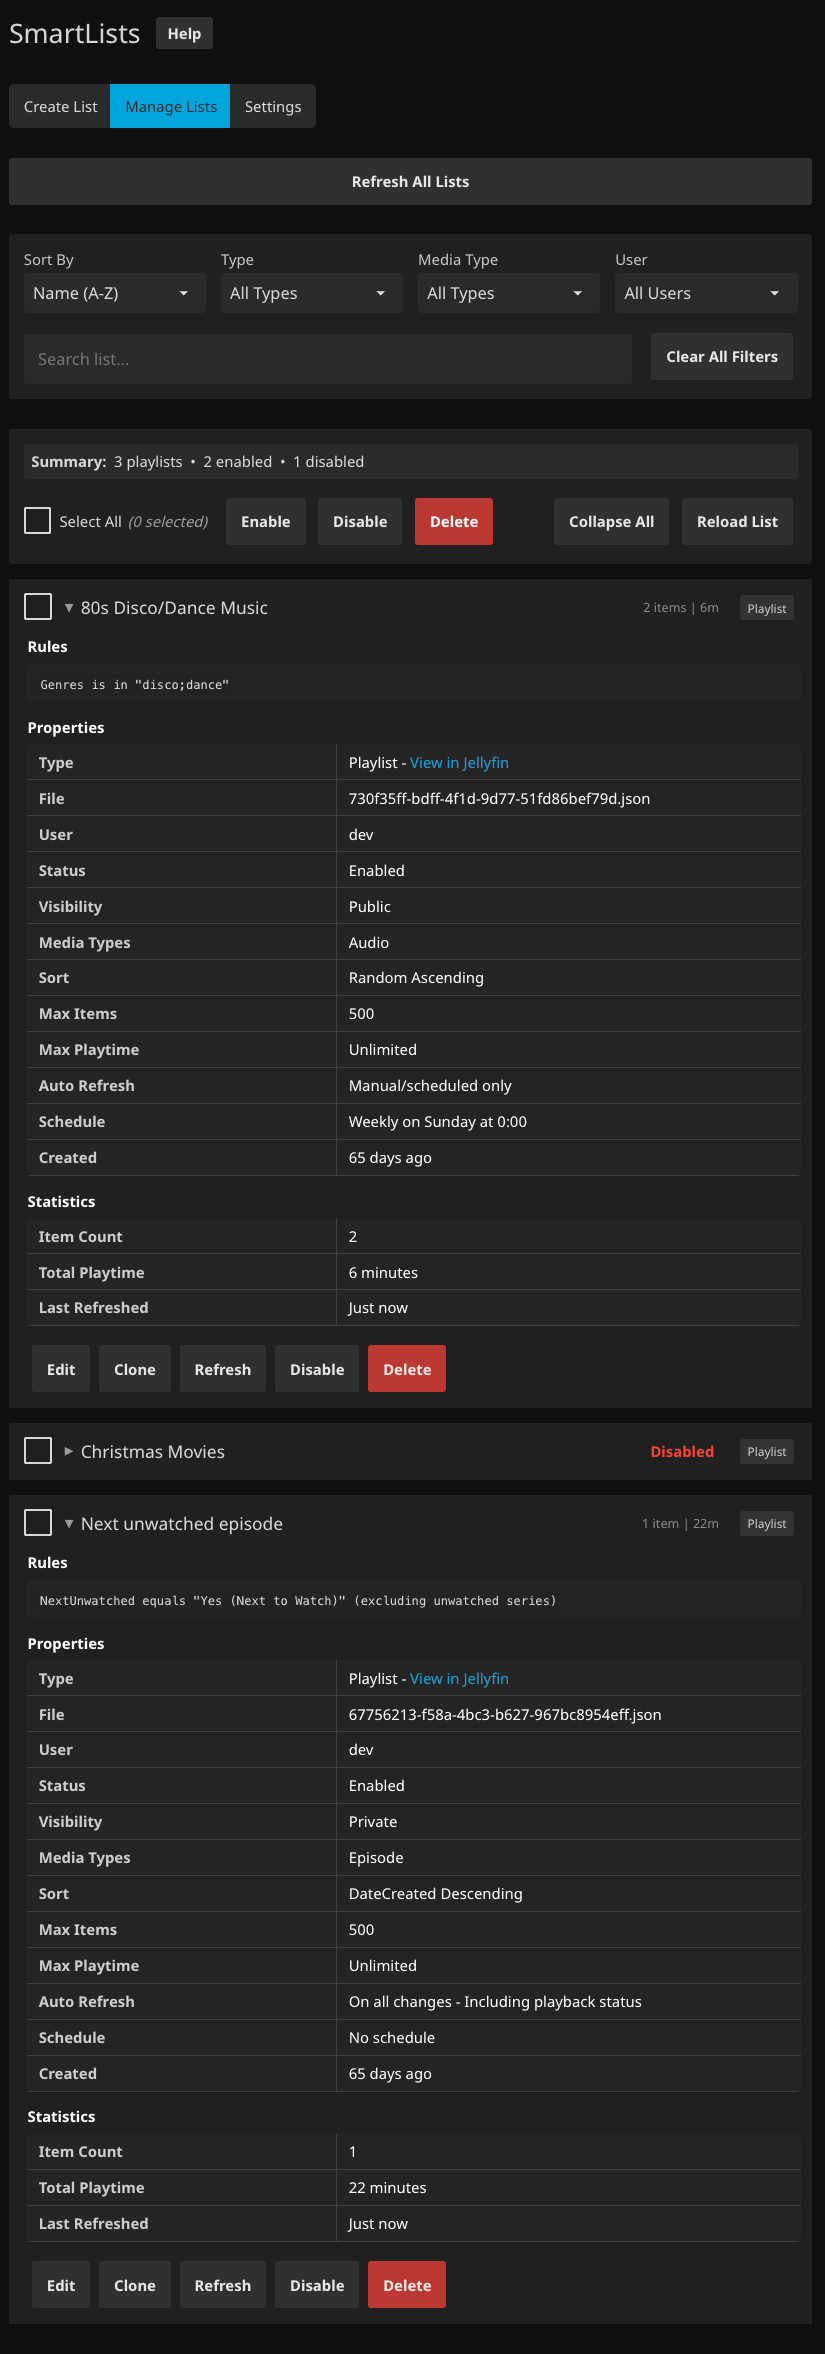
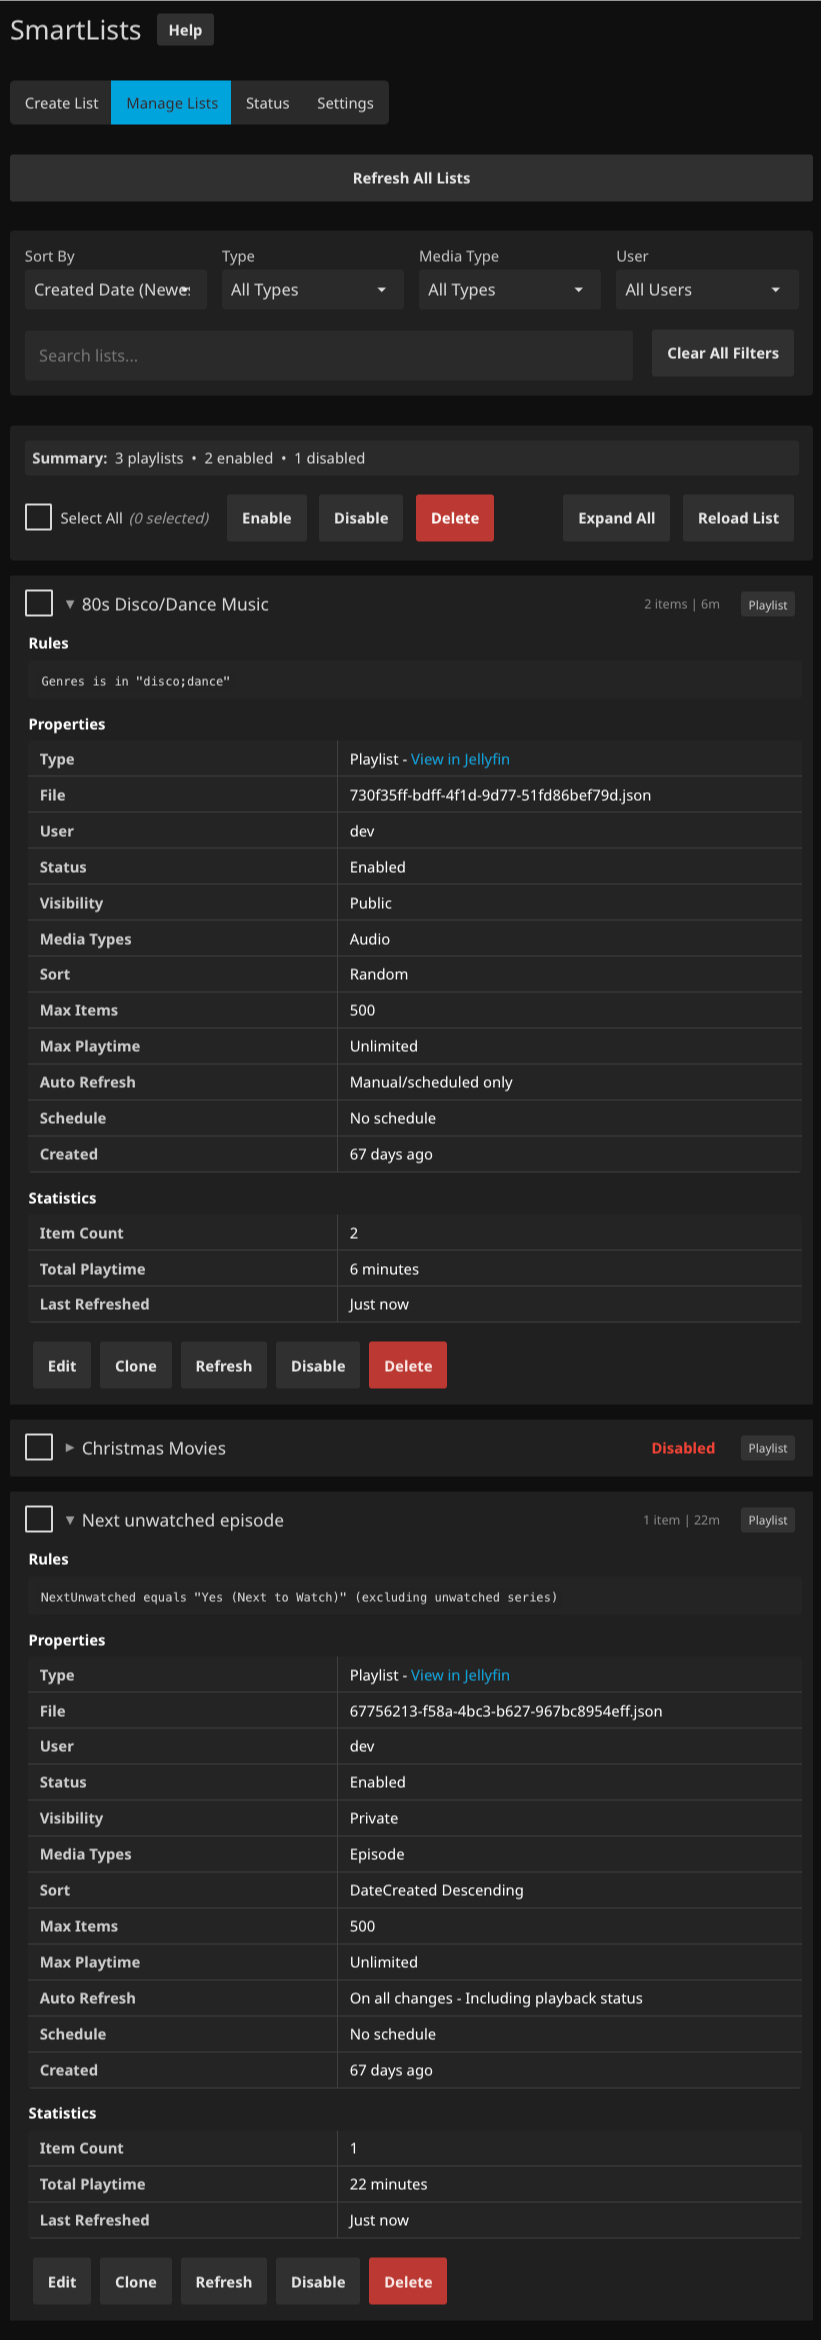
Screenshot changes

diff --git a/README.md b/README.md
@@ -37,13 +37,16 @@ This plugin allows you to create dynamic playlists and collections based on a se
 
 ## ⚙ Configuration Interface
 
-SmartLists features a modern web-based configuration interface with three main tabs:
+SmartLists features a modern web-based configuration interface with four main tabs:
 
 <div align="center">
     <p>
-        <img alt="Create list page" src="https://raw.githubusercontent.com/jyourstone/jellyfin-smartplaylist-plugin/main/images/config_page_create.png" width="270" style="margin-right: 10px;"/>
-        <img alt="Manage lists page" src="https://raw.githubusercontent.com/jyourstone/jellyfin-smartplaylist-plugin/main/images/config_page_manage.png" width="270" style="margin-right: 10px;"/>
-        <img alt="Settings page" src="https://raw.githubusercontent.com/jyourstone/jellyfin-smartplaylist-plugin/main/images/config_page_settings.png" width="270"/>
+        <img alt="Create list page" src="https://raw.githubusercontent.com/jyourstone/jellyfin-smartplaylist-plugin/main/images/config_page_create.png" width="400" style="margin-right: 10px; margin-bottom: 10px;"/>
+        <img alt="Manage lists page" src="https://raw.githubusercontent.com/jyourstone/jellyfin-smartplaylist-plugin/main/images/config_page_manage.png" width="400" style="margin-right: 10px; margin-bottom: 10px;"/>
+    </p>
+    <p>
+        <img alt="Status page" src="https://raw.githubusercontent.com/jyourstone/jellyfin-smartplaylist-plugin/main/images/config_page_status.png" width="400" style="margin-right: 10px;"/>
+        <img alt="Settings page" src="https://raw.githubusercontent.com/jyourstone/jellyfin-smartplaylist-plugin/main/images/config_page_settings.png" width="400"/>
     </p>
 </div>
 

diff --git a/docs/content/user-guide/configuration.md b/docs/content/user-guide/configuration.md
@@ -2,7 +2,7 @@
 
 SmartLists features a modern web-based configuration interface through the plugin settings page!
 
-<div align="center" style="display: flex; justify-content: center; gap: 10px; flex-wrap: wrap;">
+<div align="center" style="display: grid; grid-template-columns: repeat(2, 1fr); gap: 10px; max-width: 500px; margin: 0 auto;">
     <a href="https://raw.githubusercontent.com/jyourstone/jellyfin-smartplaylist-plugin/main/images/config_page_create.png" target="_blank" style="cursor: pointer;">
         <img alt="Create list page" src="https://raw.githubusercontent.com/jyourstone/jellyfin-smartplaylist-plugin/main/images/config_page_create.png" width="240"/>
     </a>
